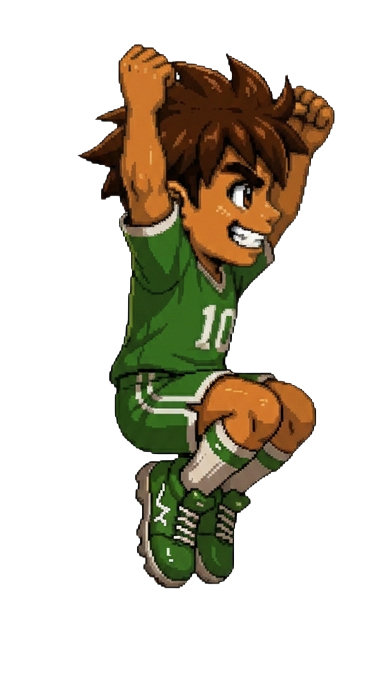
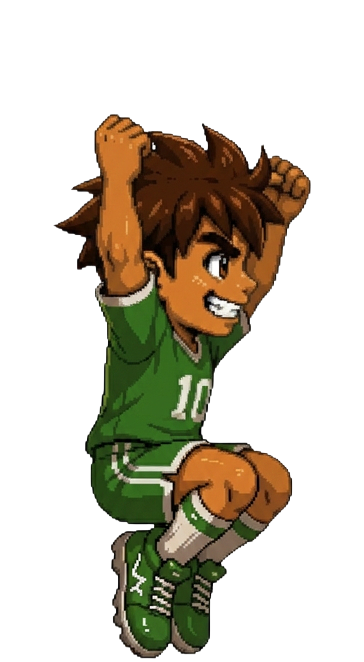
Show Miles jump sprite while airborne
- Normalize jump sprites to the shared 364x662 frame canvas and
  lowercase the L filename
- Miles shows the tuck pose whenever off the ground (works for jump
  and air attacks), keyed to facing direction

https://claude.ai/code/session_01AcHujqFqKQDzHHk9spZ3nX

diff --git a/src/entities/Miles.js b/src/entities/Miles.js
@@ -6,15 +6,16 @@ const WALK_FRAME_MS    = 130;
 const BASE_SPRITE_H    = 160; // display height at mid-floor (scales with depth)
 const DEPTH_SCALE_MIN  = 0.6; // scale at FLOOR_TOP (far away)
 const DEPTH_SCALE_MAX  = 1.3; // scale at FLOOR_BOTTOM (close up)
-// 6-frame walk cycle per direction, plus idle (legs together) at index 6
+// 6-frame walk cycle per direction, plus idle (legs together) and jump
 const WALK_SPRITE_KEYS = [
-  'miles_walk_r1', 'miles_walk_r2', 'miles_walk_r3',
-  'miles_walk_r4', 'miles_walk_r5', 'miles_walk_r6', 'miles_idle_r',
-  'miles_walk_l1', 'miles_walk_l2', 'miles_walk_l3',
-  'miles_walk_l4', 'miles_walk_l5', 'miles_walk_l6', 'miles_idle_l',
+  'miles_walk_r1', 'miles_walk_r2', 'miles_walk_r3', 'miles_walk_r4',
+  'miles_walk_r5', 'miles_walk_r6', 'miles_idle_r',  'miles_jump_r',
+  'miles_walk_l1', 'miles_walk_l2', 'miles_walk_l3', 'miles_walk_l4',
+  'miles_walk_l5', 'miles_walk_l6', 'miles_idle_l',  'miles_jump_l',
 ];
-const FRAMES_PER_DIR = 7;
+const FRAMES_PER_DIR = 8;
 const IDLE_FRAME     = 6;
+const JUMP_FRAME     = 7;
 // Classic 4-beat walk: stride-A, feet pass, stride-B, feet pass.
 // Frames 3 (near-duplicate of 4) and 6 (knee-up fist pump) are skipped —
 // they broke the gait rhythm.
@@ -131,10 +132,12 @@ export class Miles extends Character {
     const sy2        = baseScale * depthScale * this.sprite.scaleY;
     const alpha      = this.sprite.alpha;
 
-    // 4-beat cycle while walking; idle holds the legs-together frame
-    const frameNum = (this.state === 'walk')
-      ? WALK_SEQUENCE[Math.floor(Date.now() / WALK_FRAME_MS) % WALK_SEQUENCE.length]
-      : IDLE_FRAME;
+    // Airborne shows the jump tuck; 4-beat cycle while walking; idle otherwise
+    const frameNum = !this.isGrounded()
+      ? JUMP_FRAME
+      : (this.state === 'walk')
+        ? WALK_SEQUENCE[Math.floor(Date.now() / WALK_FRAME_MS) % WALK_SEQUENCE.length]
+        : IDLE_FRAME;
     const dirOff   = this.facing === 'right' ? 0 : FRAMES_PER_DIR;
     const frameIdx = dirOff + frameNum;
 

diff --git a/src/scenes/GameScene.js b/src/scenes/GameScene.js
@@ -33,6 +33,8 @@ export class GameScene extends Phaser.Scene {
     }
     this.load.image('miles_idle_r', 'miles-idle-r.png');
     this.load.image('miles_idle_l', 'miles-idle-l.png');
+    this.load.image('miles_jump_r', 'miles-jump-r.png');
+    this.load.image('miles_jump_l', 'miles-jump-l.png');
     this.load.image('soccer_ball',   'soccer-ball.png');
   }
 
